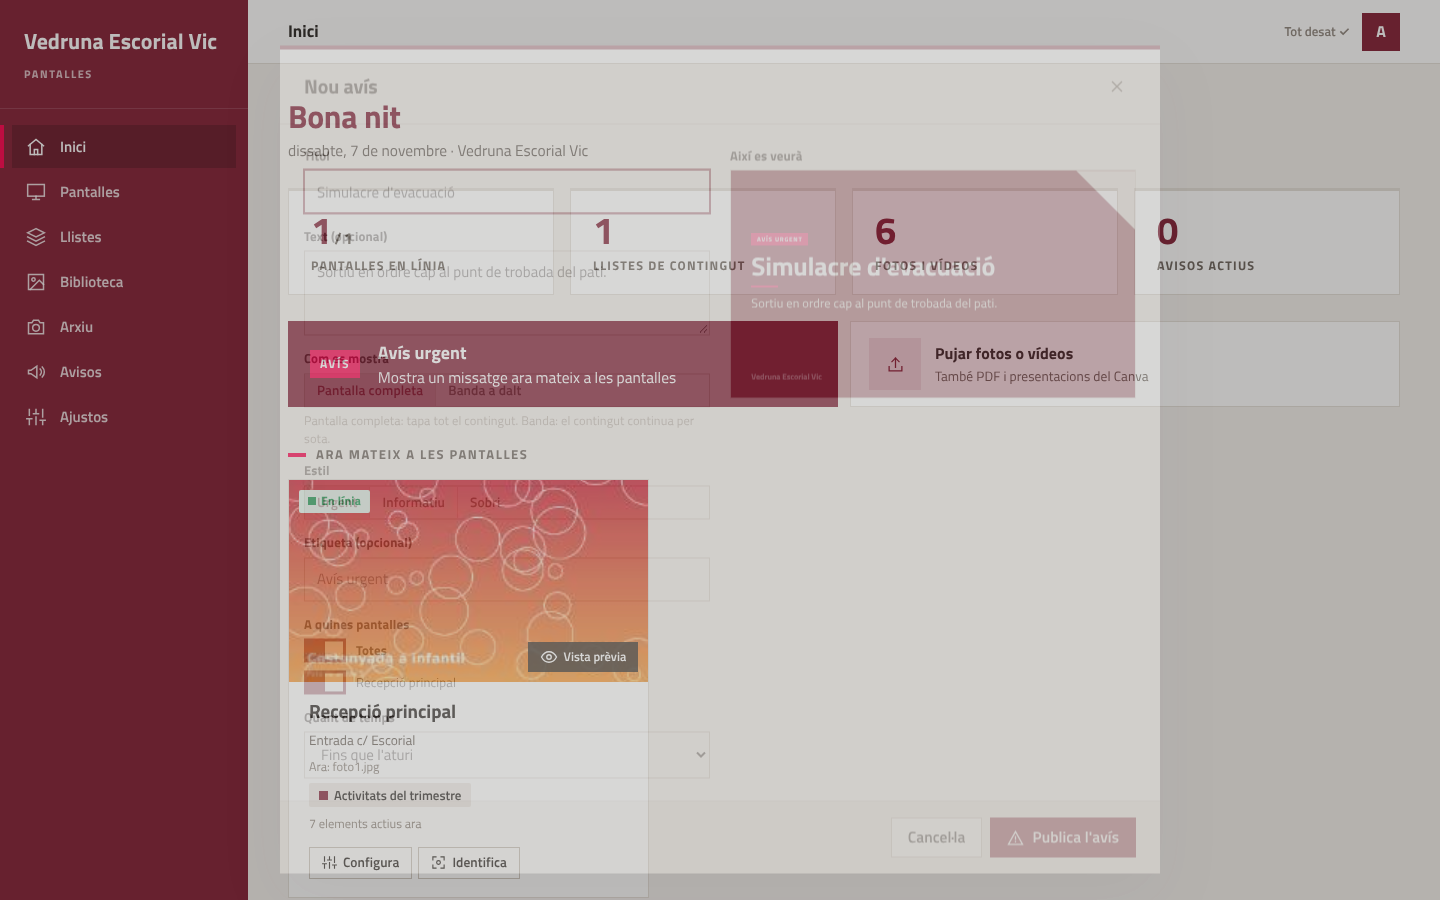
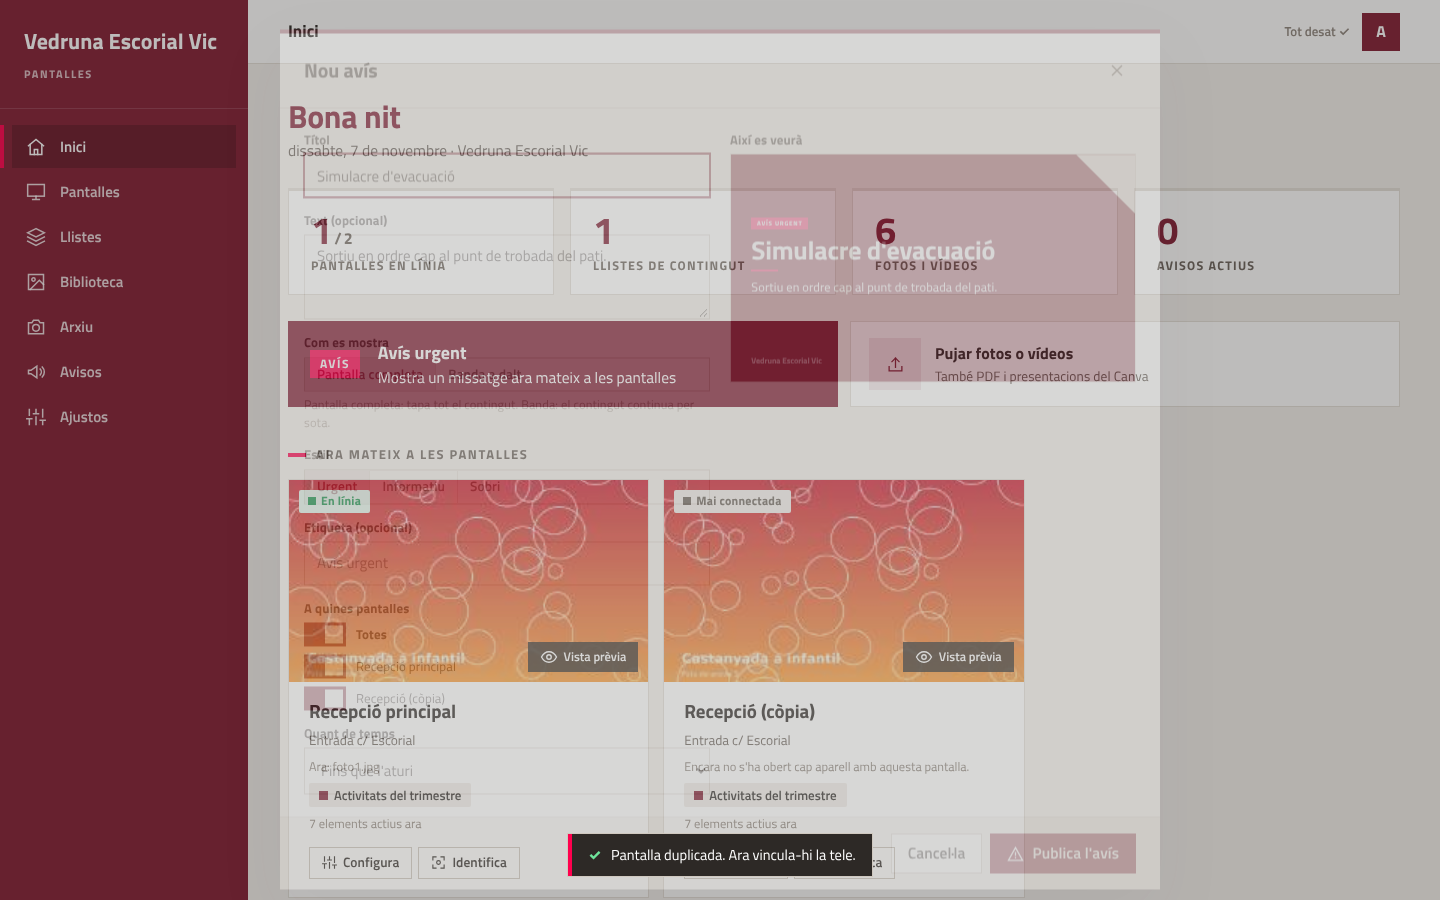
Duplicar una pantalla o copiar-ne la configuració a altres
- ⋯ → «Duplica la pantalla»: en crea una de nova amb les mateixes llistes,
  horari, orientació, rellotge, cinta i avisos, i demana vincular-hi la tele.
- ⋯ → «Copia aquesta configuració a…»: la passa a pantalles existents
  (es mantenen el seu nom i el seu aparell).

Claude-Session: https://claude.ai/code/session_01X8vwkzjFFoknxysTtiBFhw

diff --git a/panell/panell.js b/panell/panell.js
@@ -591,7 +591,7 @@
   /* ------------------------------------------------------------------
    *  INICI
    * ---------------------------------------------------------------- */
-  var VERSIO_SERVEI = '1.6.0';
+  var VERSIO_SERVEI = '1.7.0';
   function serveiAntic() {
     var v = (S.d && S.d.version) || '0';
     var a = v.split('.').map(Number), b = VERSIO_SERVEI.split('.').map(Number);
@@ -752,13 +752,14 @@
 
   function afegirPantalla(idExistent) {
     var substitueix = typeof idExistent === 'string' ? troba(S.d.screens, idExistent) : null;
+    var senseAparell = substitueix && !(S.d.status[substitueix.id] && S.d.status[substitueix.id].seen);
     var llistes = S.d.playlists;
     obreModal({
-      titol: substitueix ? 'Canviar l\'aparell de «' + substitueix.name + '»' : 'Afegir una pantalla',
+      titol: substitueix ? (senseAparell ? 'Vincula una tele a «' + substitueix.name + '»' : 'Canviar l\'aparell de «' + substitueix.name + '»') : 'Afegir una pantalla',
       cos: '<div class="pila">' +
         '<div class="avis-caixa info">A la tele (o al miniPC, Chromecast, ordinador… connectat a la tele) obre el navegador i ves a:<br><b style="word-break:break-all">' + esc(urlReproductor()) + '</b><br>Sortirà un codi de 6 xifres a la pantalla.</div>' +
         '<label class="camp">Codi que surt a la pantalla<input type="text" class="codi-gran" inputmode="numeric" maxlength="7" placeholder="000 000" data-codi autofocus></label>' +
-        (substitueix ? '<p class="subtil">L\'aparell antic deixarà de funcionar i el nou mostrarà el mateix contingut i configuració.</p>' :
+        (substitueix ? (senseAparell ? '' : '<p class="subtil">L\'aparell antic deixarà de funcionar i el nou mostrarà el mateix contingut i configuració.</p>') :
           '<div class="fila"><label class="camp">Nom de la pantalla<input type="text" data-nom placeholder="Recepció principal" maxlength="80"></label>' +
           '<label class="camp">On és (opcional)<input type="text" data-lloc placeholder="Entrada c/ Escorial" maxlength="120"></label></div>' +
           (llistes.length ? '<div class="camp">Què ha de mostrar<div class="pila" style="gap:8px;font-weight:500">' + llistes.map(function (l) {
@@ -800,6 +801,53 @@
               mostraEnllac(p, r.token);
             });
           });
+        };
+      }
+    });
+  }
+
+  /** Crea una pantalla nova amb la mateixa configuració (després s'hi vincula una tele). */
+  function duplicaPantalla(p) {
+    obreModal({
+      titol: 'Duplica «' + p.name + '»',
+      cos: '<div class="pila"><p style="margin:0">Es crearà una pantalla nova amb la mateixa configuració: llistes, horari, orientació, rellotge, cinta i avisos. Després hi vincules la tele amb el codi.</p>' +
+        '<div class="fila"><label class="camp">Nom de la pantalla nova<input type="text" data-nom value="' + esc(p.name + ' (còpia)') + '" maxlength="80" autofocus></label>' +
+        '<label class="camp">On és (opcional)<input type="text" data-lloc value="' + esc(p.location || '') + '" maxlength="120"></label></div></div>',
+      peu: '<button class="btn" data-tanca>Cancel·la</button><button class="btn primari" data-ok>' + IC('duplica') + 'Duplica</button>',
+      enObrir: function (el) {
+        $('[data-ok]', el).onclick = function () {
+          var b = this; b.disabled = true;
+          crida('duplicateScreen', { id: p.id, name: $('[data-nom]', el).value.trim(), location: $('[data-lloc]', el).value.trim() }, { desa: true }).then(function (r) {
+            return carrega().then(function () {
+              tancaModal();
+              location.hash = '#pantalla/' + r.screen.id;
+              toast('Pantalla duplicada. Ara vincula-hi la tele.', 'ok', 5000);
+              setTimeout(function () { afegirPantalla(r.screen.id); }, 300);
+            });
+          }, function () { b.disabled = false; });
+        };
+      }
+    });
+  }
+
+  /** Passa la configuració d'una pantalla a altres que ja existeixen. */
+  function copiaConfigA(p) {
+    var altres = S.d.screens.filter(function (x) { return x.id !== p.id; });
+    if (!altres.length) { toast('No hi ha cap altra pantalla. Fes servir «Duplica la pantalla».', 'error'); return; }
+    obreModal({
+      titol: 'Copia la configuració de «' + p.name + '»',
+      cos: '<div class="pila"><p style="margin:0">Les pantalles triades passaran a mostrar el mateix que «' + esc(p.name) + '»: les mateixes llistes, horari, orientació, rellotge, cinta i avisos. Es mantenen el seu nom i el seu aparell.</p>' +
+        '<div class="pila" style="gap:8px">' + altres.map(function (x) { return '<label class="interruptor"><input type="checkbox" data-a="' + x.id + '"> ' + esc(x.name) + (x.location ? ' <span class="molt-subtil">· ' + esc(x.location) + '</span>' : '') + '</label>'; }).join('') + '</div></div>',
+      peu: '<button class="btn" data-tanca>Cancel·la</button><button class="btn primari" data-ok disabled>' + IC('copia') + 'Copia la configuració</button>',
+      enObrir: function (el) {
+        var ok = $('[data-ok]', el);
+        $$('[data-a]', el).forEach(function (c) { c.onchange = function () { ok.disabled = !$$('[data-a]:checked', el).length; }; });
+        ok.onclick = function () {
+          var ids = $$('[data-a]:checked', el).map(function (c) { return c.dataset.a; });
+          ok.disabled = true;
+          crida('duplicateScreen', { id: p.id, toIds: ids }, { desa: true }).then(function (r) {
+            return carrega().then(function () { tancaModal(); toast('Configuració copiada a ' + r.copiades + ' pantalla' + (r.copiades === 1 ? '' : 'es') + '. S\'actualitzaran en menys d\'un minut.', 'ok', 5000); render(true); });
+          }, function () { ok.disabled = false; });
         };
       }
     });
@@ -906,7 +954,9 @@
         { text: IC('recarrega') + 'Reinicia el reproductor', fes: function () { crida('screenCommand', { id: id, type: 'reload' }, { desa: true }).then(function () { toast('Es reiniciarà en menys d\'un minut.', 'ok'); }); } },
         { text: IC('neteja') + 'Esborra i torna a descarregar els fitxers', fes: function () { crida('screenCommand', { id: id, type: 'clearcache' }, { desa: true }).then(function () { toast('Ordre enviada.', 'ok'); }); } },
         { text: IC('enllac') + 'Enllaç i codi QR d\'aquesta pantalla', fes: function () { enllacPantalla(id); } },
-        { text: IC('canvia') + 'Canviar l\'aparell (tele nova…)', fes: function () { afegirPantalla(id); } }
+        { text: IC('canvia') + 'Canviar l\'aparell (tele nova…)', fes: function () { afegirPantalla(id); } },
+        { text: IC('duplica') + 'Duplica la pantalla', fes: function () { duplicaPantalla(p); } },
+        { text: IC('copia') + 'Copia aquesta configuració a…', fes: function () { copiaConfigA(p); } }
       ];
       if (esAdmin) {
         ops.push({ text: IC('recarrega') + 'Renova l\'enllaç (desvincula l\'aparell actual)', fes: function () {

diff --git a/eines/prova-e2e.js b/eines/prova-e2e.js
@@ -172,6 +172,16 @@ const espera = (ms) => new Promise((r) => setTimeout(r, ms));
     await captura(tv, '08-pantalla-rellotge-cinta');
     await captura(p, '09-config-pantalla');
 
+    // Duplicar la pantalla
+    await p.click('[data-accio=mes]');
+    await p.click('.desplegable button:has-text("Duplica la pantalla")');
+    await p.fill('.modal [data-nom]', 'Recepció (còpia)');
+    await p.click('.modal [data-ok]');
+    await p.waitForSelector('.modal [data-codi]', { timeout: 15000 });
+    ok(await p.evaluate(() => { const s = window.__panell.S.d.screens; return s.length === 2 && s[1].name === 'Recepció (còpia)' && s[1].overlays.clock === true && s[1].playlists.length === s[0].playlists.length; }),
+      'duplica la pantalla amb la mateixa configuració i demana vincular-hi una tele');
+    await p.keyboard.press('Escape');
+
     /* ---------- 7. Avís urgent ---------- */
     console.log('Avís urgent');
     await p.click('a[data-sec=inici]');

diff --git a/GUIA.md b/GUIA.md
@@ -239,6 +239,7 @@ Dins la carpeta del Drive hi ha la **Bústia**. Si s'hi deixen fotos o vídeos (
 | Una pàgina web surt en blanc | Aquella web no deixa que la mostrin dins d'una altra pàgina (passa amb Google, Instagram, diaris…). Fes-ne una captura o un PDF. |
 | Un vídeo no es veu | Exporta'l en **MP4 (H.264)**, el format més compatible. Del Canva ja surt així. |
 | Una pantalla fa coses estranyes | *Pantalles → la pantalla → ⋯ → Reinicia el reproductor*. |
+| Vull que una altra pantalla mostri el mateix | *Pantalles → la pantalla → ⋯ → Duplica la pantalla* (en crea una de nova igual i hi vincules la tele) o *Copia aquesta configuració a…* (la passa a pantalles que ja tens). |
 | Canviem una tele o l'aparell | *Pantalles → la pantalla → ⋯ → Canviar l'aparell* i escriu el codi de l'aparell nou. Es manté tota la configuració. |
 | Ningú pot entrar al panell | A l'editor d'Apps Script, a `Instal.gs`, posa el correu a la funció `afegirAdministrador` i executa-la. |
 | S'ha esborrat alguna cosa per error | A la carpeta del Drive, *Còpies de seguretat*, hi ha una còpia diària de tota la configuració (30 dies). Els fitxers esborrats van a la paperera del Drive. |
